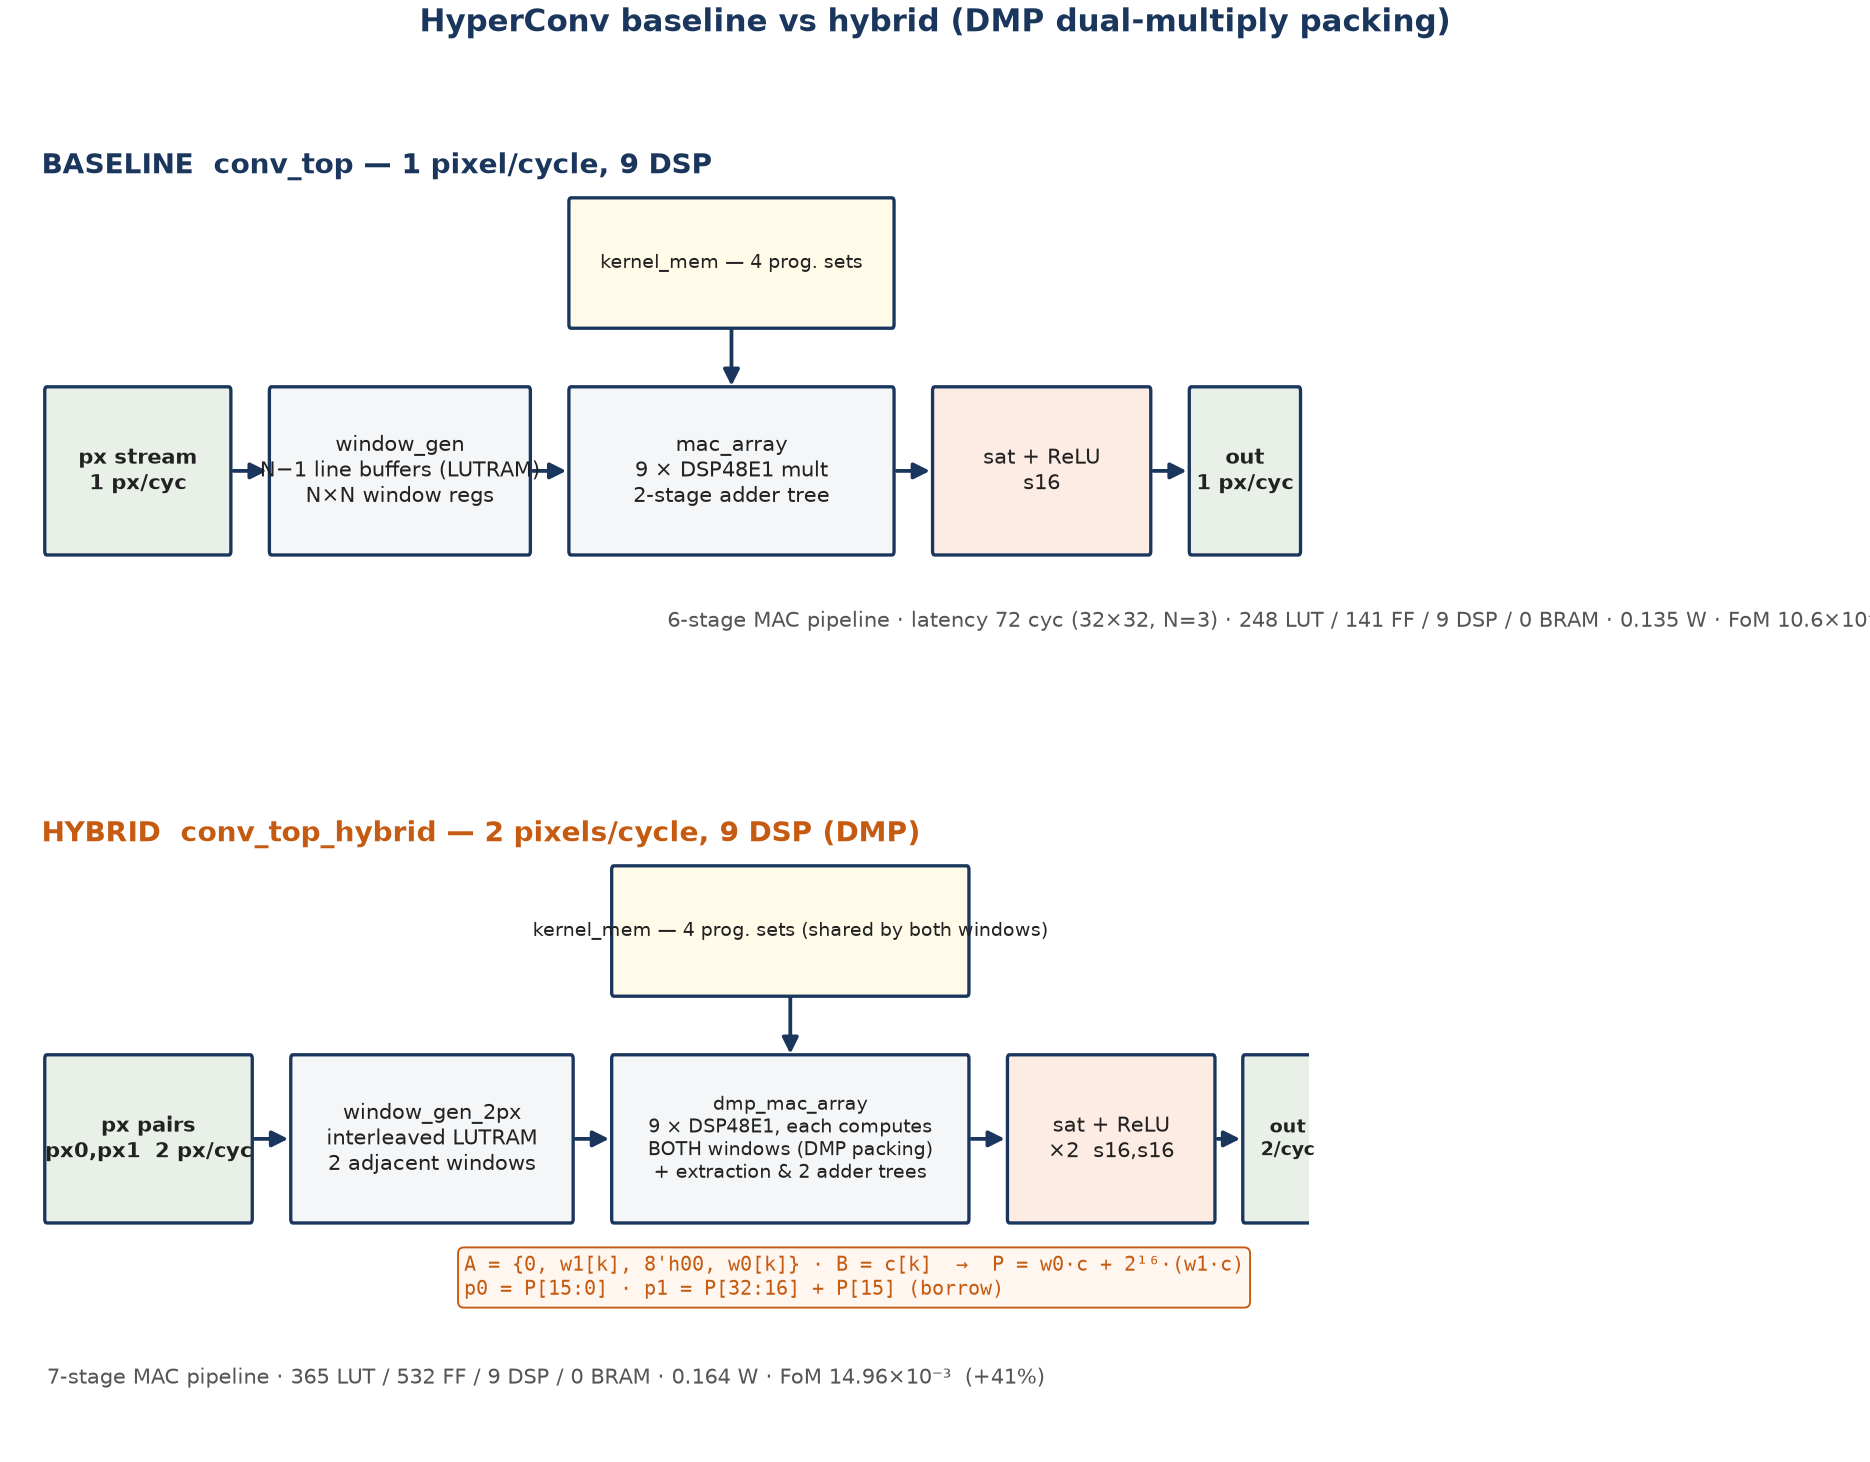
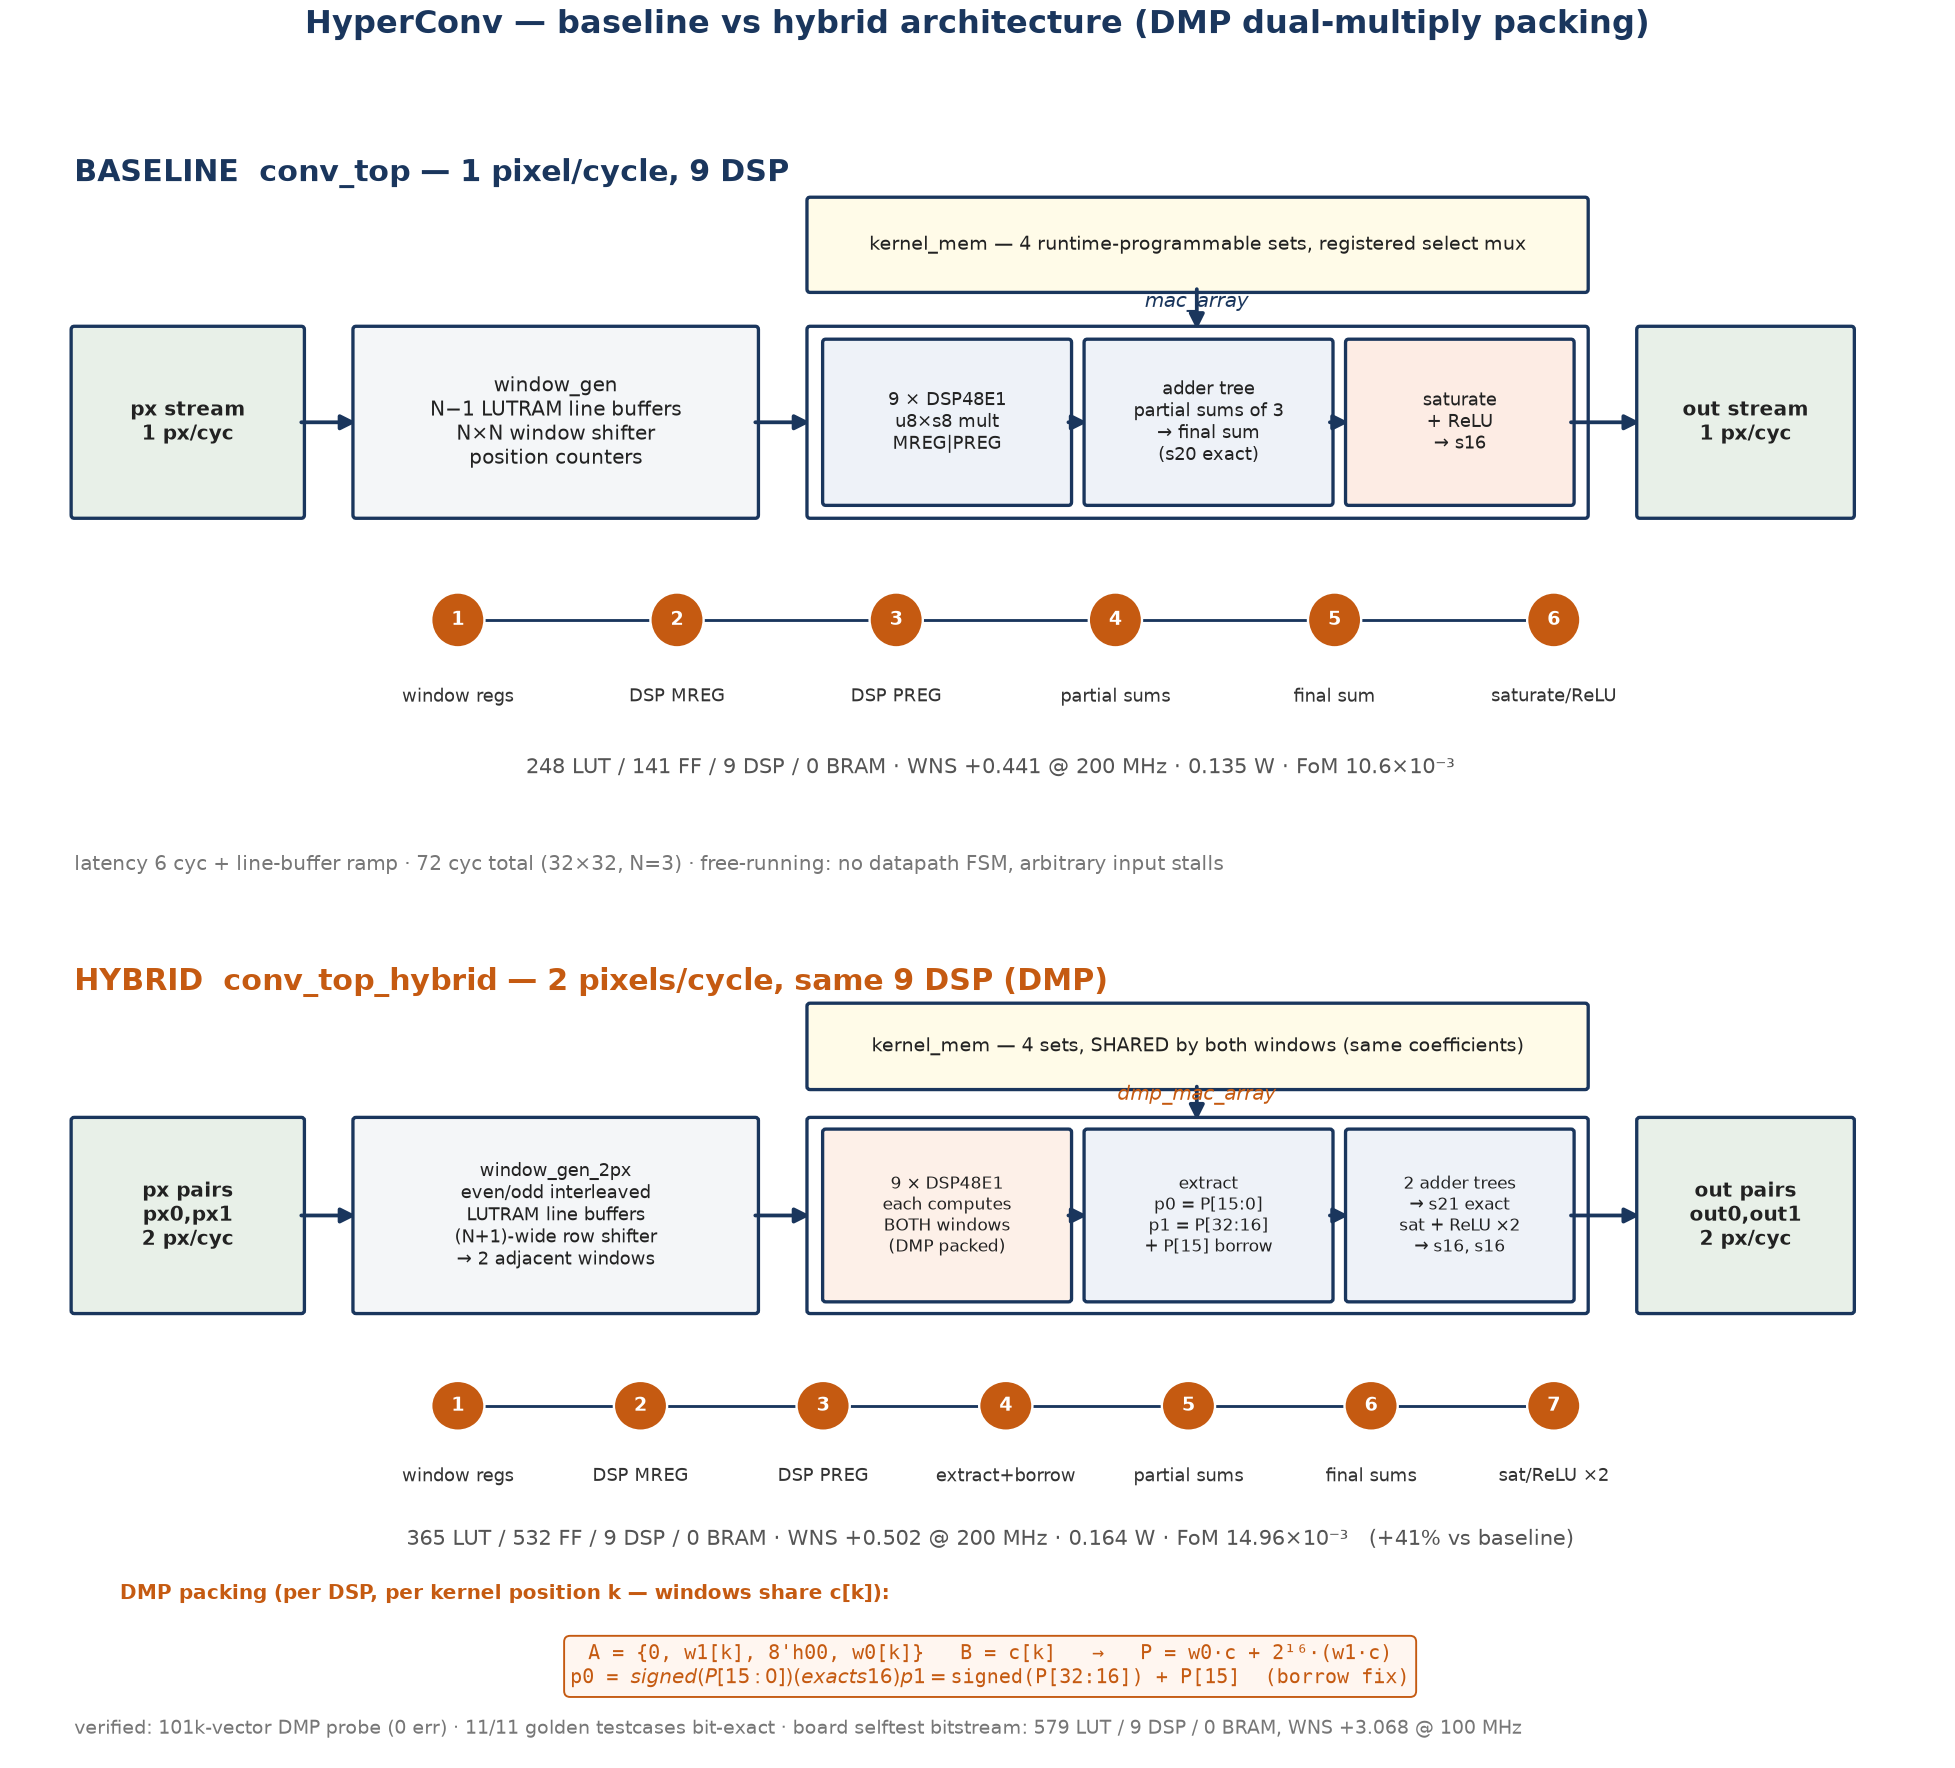
Upgrade hybrid architecture diagram with full internals
- expanded mac_array / dmp_mac_array sub-blocks (packed DSPs, extraction
  + borrow fix, dual adder trees, dual sat/ReLU)
- pipeline stage rulers (6 baseline / 7 hybrid) with per-stage labels
- DMP packing equation panel, verification + board-demo footnote
- fixed label/stat line collisions

diff --git a/docs/gen_hybrid_diagram.py b/docs/gen_hybrid_diagram.py
@@ -1,13 +1,21 @@
 #!/usr/bin/env python3
-"""HyperConv hybrid - baseline vs hybrid block diagram (matplotlib)."""
+"""HyperConv hybrid - baseline vs hybrid architecture diagram (matplotlib).
+
+Regenerates docs/Images/block-diagram-hybrid.png. Two panels:
+  top    - baseline conv_top datapath (6-stage pipeline ruler)
+  bottom - hybrid conv_top_hybrid datapath with dmp_mac_array internals
+           (packed DSPs, extraction/borrow, dual adder trees) and the
+           DMP packing equation (7-stage pipeline ruler)
+"""
 import matplotlib
 matplotlib.use("Agg")
 import matplotlib.pyplot as plt
-from matplotlib.patches import FancyBboxPatch, FancyArrowPatch
+from matplotlib.patches import FancyBboxPatch, FancyArrowPatch, Circle
 
 NAVY, ACCENT, LIGHT = "#1a365d", "#c55a11", "#f4f6f8"
+GREEN, PINK, CREAM = "#e8f0e8", "#fdece4", "#fffbe8"
 
-def box(ax, x, y, w, h, text, fc=LIGHT, ec=NAVY, fs=9, bold=False):
+def box(ax, x, y, w, h, text, fc=LIGHT, ec=NAVY, fs=8.5, bold=False):
     ax.add_patch(FancyBboxPatch((x, y), w, h, boxstyle="round,pad=0.02",
                                 fc=fc, ec=ec, lw=1.4))
     ax.text(x + w/2, y + h/2, text, ha="center", va="center", fontsize=fs,
@@ -15,55 +23,106 @@ def box(ax, x, y, w, h, text, fc=LIGHT, ec=NAVY, fs=9, bold=False):
 
 def arrow(ax, x1, y1, x2, y2, color=NAVY, lw=1.6):
     ax.add_patch(FancyArrowPatch((x1, y1), (x2, y2),
-                 arrowstyle="-|>", mutation_scale=14, color=color, lw=lw))
+                 arrowstyle="-|>", mutation_scale=13, color=color, lw=lw,
+                 shrinkA=0, shrinkB=0))
 
-fig, (ax1, ax2) = plt.subplots(2, 1, figsize=(11, 8.6))
-for ax, title in ((ax1, "BASELINE  conv_top — 1 pixel/cycle, 9 DSP"),
-                  (ax2, "HYBRID  conv_top_hybrid — 2 pixels/cycle, 9 DSP (DMP)")):
-    ax.set_xlim(0, 12); ax.set_ylim(0, 3.4); ax.axis("off")
-    ax.text(0.15, 3.15, title, fontsize=12, fontweight="bold",
-            color=ACCENT if "HYBRID" in title else NAVY)
+def stages(ax, y, x0, x1, labels):
+    """pipeline ruler: numbered circles + labels between x0 and x1"""
+    n = len(labels)
+    dx = (x1 - x0) / (n - 1)
+    ax.plot([x0, x1], [y, y], color=NAVY, lw=1.2, zorder=1)
+    for i, lab in enumerate(labels):
+        cx = x0 + i * dx
+        ax.add_patch(Circle((cx, y), 0.17, fc=ACCENT, ec="white", zorder=3))
+        ax.text(cx, y, str(i + 1), ha="center", va="center", fontsize=8,
+                color="white", fontweight="bold", zorder=4)
+        ax.text(cx, y - 0.42, lab, ha="center", va="top", fontsize=7.6,
+                color="#333")
 
-# ---- baseline row -----------------------------------------------------------
-Y, H = 1.15, 0.85
-box(ax1, 0.2, Y, 1.7, H, "px stream\n1 px/cyc", fc="#e8f0e8", bold=True)
-box(ax1, 2.3, Y, 2.4, H, "window_gen\nN−1 line buffers (LUTRAM)\nN×N window regs")
-box(ax1, 5.1, Y, 3.0, H, "mac_array\n9 × DSP48E1 mult\n2-stage adder tree")
-box(ax1, 8.5, Y, 2.0, H, "sat + ReLU\ns16", fc="#fdece4")
-box(ax1, 10.9, Y, 1.0, H, "out\n1 px/cyc", fc="#e8f0e8", bold=True)
-box(ax1, 5.1, 2.35, 3.0, 0.65, "kernel_mem — 4 prog. sets", fs=8, fc="#fffbe8")
-arrow(ax1, 1.9, Y+H/2, 2.3, Y+H/2)
-arrow(ax1, 4.7, Y+H/2, 5.1, Y+H/2)
-arrow(ax1, 8.1, Y+H/2, 8.5, Y+H/2)
-arrow(ax1, 10.5, Y+H/2, 10.9, Y+H/2)
-arrow(ax1, 6.6, 2.35, 6.6, Y+H)
-ax1.text(6.0, 0.75, "6-stage MAC pipeline · latency 72 cyc (32×32, N=3) · "
-         "248 LUT / 141 FF / 9 DSP / 0 BRAM · 0.135 W · FoM 10.6×10⁻³",
-         fontsize=9, color="#555")
+fig, (ax1, ax2) = plt.subplots(2, 1, figsize=(11.5, 10.4))
 
-# ---- hybrid row -------------------------------------------------------------
-box(ax2, 0.2, Y, 1.9, H, "px pairs\npx0,px1  2 px/cyc", fc="#e8f0e8", bold=True)
-box(ax2, 2.5, Y, 2.6, H, "window_gen_2px\ninterleaved LUTRAM\n2 adjacent windows")
-box(ax2, 5.5, Y, 3.3, H, "dmp_mac_array\n9 × DSP48E1, each computes\n"
-    "BOTH windows (DMP packing)\n+ extraction & 2 adder trees", fs=8)
-box(ax2, 9.2, Y, 1.9, H, "sat + ReLU\n×2  s16,s16", fc="#fdece4")
-box(ax2, 11.4, Y, 0.8, H, "out\n2/cyc", fc="#e8f0e8", bold=True, fs=8)
-box(ax2, 5.5, 2.35, 3.3, 0.65, "kernel_mem — 4 prog. sets (shared by both windows)",
-    fs=8, fc="#fffbe8")
-arrow(ax2, 2.1, Y+H/2, 2.5, Y+H/2)
-arrow(ax2, 5.1, Y+H/2, 5.5, Y+H/2)
-arrow(ax2, 8.8, Y+H/2, 9.2, Y+H/2)
-arrow(ax2, 11.1, Y+H/2, 11.4, Y+H/2)
-arrow(ax2, 7.15, 2.35, 7.15, Y+H)
-ax2.text(4.1, 0.75, "A = {0, w1[k], 8'h00, w0[k]} · B = c[k]  →  "
-         "P = w0·c + 2¹⁶·(w1·c)\np0 = P[15:0] · p1 = P[32:16] + P[15] (borrow)",
-         fontsize=8.5, color=ACCENT, family="monospace",
+# ============================================================== baseline ====
+ax1.set_xlim(0, 12); ax1.set_ylim(0, 4.9); ax1.axis("off")
+ax1.text(0.15, 4.62, "BASELINE  conv_top — 1 pixel/cycle, 9 DSP",
+         fontsize=12.5, fontweight="bold", color=NAVY)
+
+Y, H = 2.55, 1.15
+box(ax1, 0.15, Y, 1.45, H, "px stream\n1 px/cyc", fc=GREEN, bold=True)
+box(ax1, 1.95, Y, 2.55, H, "window_gen\nN−1 LUTRAM line buffers\n"
+    "N×N window shifter\nposition counters")
+# mac_array outer + sub-blocks
+box(ax1, 4.85, Y, 4.95, H, "", fc="#ffffff")
+ax1.text(7.32, Y + H + 0.14, "mac_array", ha="center", fontsize=8.5,
+         style="italic", color=NAVY)
+box(ax1, 4.95, Y + 0.08, 1.55, H - 0.16, "9 × DSP48E1\nu8×s8 mult\nMREG|PREG",
+    fc="#eef2f8", fs=7.6)
+box(ax1, 6.62, Y + 0.08, 1.55, H - 0.16, "adder tree\npartial sums of 3\n→ final sum\n(s20 exact)",
+    fc="#eef2f8", fs=7.6)
+box(ax1, 8.29, Y + 0.08, 1.42, H - 0.16, "saturate\n+ ReLU\n→ s16", fc=PINK, fs=7.6)
+box(ax1, 10.15, Y, 1.35, H, "out stream\n1 px/cyc", fc=GREEN, bold=True)
+box(ax1, 4.85, 3.95, 4.95, 0.55, "kernel_mem — 4 runtime-programmable sets, registered select mux",
+    fs=8, fc=CREAM)
+arrow(ax1, 1.60, Y+H/2, 1.95, Y+H/2)
+arrow(ax1, 4.50, Y+H/2, 4.85, Y+H/2)
+arrow(ax1, 6.50, Y+H/2, 6.62, Y+H/2)
+arrow(ax1, 8.17, Y+H/2, 8.29, Y+H/2)
+arrow(ax1, 9.71, Y+H/2, 10.15, Y+H/2)
+arrow(ax1, 7.32, 3.95, 7.32, Y + H)
+ax1.text(6.0, 0.95, "248 LUT / 141 FF / 9 DSP / 0 BRAM · WNS +0.441 @ 200 MHz · "
+         "0.135 W · FoM 10.6×10⁻³", fontsize=9, color="#555", ha="center")
+stages(ax1, 1.90, 2.6, 9.6,
+       ["window regs", "DSP MREG", "DSP PREG", "partial sums",
+        "final sum", "saturate/ReLU"])
+ax1.text(0.15, 0.35, "latency 6 cyc + line-buffer ramp · 72 cyc total (32×32, N=3) · "
+         "free-running: no datapath FSM, arbitrary input stalls",
+         fontsize=8.5, color="#777")
+
+# ================================================================ hybrid ====
+ax2.set_xlim(0, 12); ax2.set_ylim(0, 5.4); ax2.axis("off")
+ax2.text(0.15, 5.14, "HYBRID  conv_top_hybrid — 2 pixels/cycle, same 9 DSP (DMP)",
+         fontsize=12.5, fontweight="bold", color=ACCENT)
+
+Y, H = 2.95, 1.30
+box(ax2, 0.15, Y, 1.45, H, "px pairs\npx0,px1\n2 px/cyc", fc=GREEN, bold=True)
+box(ax2, 1.95, Y, 2.55, H, "window_gen_2px\neven/odd interleaved\nLUTRAM line buffers\n"
+    "(N+1)-wide row shifter\n→ 2 adjacent windows", fs=7.8)
+# dmp_mac_array outer + sub-blocks
+box(ax2, 4.85, Y, 4.95, H, "", fc="#ffffff")
+ax2.text(7.32, Y + H + 0.14, "dmp_mac_array", ha="center", fontsize=8.5,
+         style="italic", color=ACCENT)
+box(ax2, 4.95, Y + 0.08, 1.55, H - 0.16, "9 × DSP48E1\neach computes\nBOTH windows\n(DMP packed)",
+    fc="#fdf0e8", fs=7.4)
+box(ax2, 6.62, Y + 0.08, 1.55, H - 0.16, "extract\np0 = P[15:0]\np1 = P[32:16]\n+ P[15] borrow",
+    fc="#eef2f8", fs=7.4)
+box(ax2, 8.29, Y + 0.08, 1.42, H - 0.16, "2 adder trees\n→ s21 exact\nsat + ReLU ×2\n→ s16, s16",
+    fc="#eef2f8", fs=7.4)
+box(ax2, 10.15, Y, 1.35, H, "out pairs\nout0,out1\n2 px/cyc", fc=GREEN, bold=True, fs=8.5)
+box(ax2, 4.85, 4.48, 4.95, 0.55, "kernel_mem — 4 sets, SHARED by both windows (same coefficients)",
+    fs=8, fc=CREAM)
+arrow(ax2, 1.60, Y+H/2, 1.95, Y+H/2)
+arrow(ax2, 4.50, Y+H/2, 4.85, Y+H/2)
+arrow(ax2, 6.50, Y+H/2, 6.62, Y+H/2)
+arrow(ax2, 8.17, Y+H/2, 8.29, Y+H/2)
+arrow(ax2, 9.71, Y+H/2, 10.15, Y+H/2)
+arrow(ax2, 7.32, 4.48, 7.32, Y + H)
+ax2.text(6.0, 1.35, "365 LUT / 532 FF / 9 DSP / 0 BRAM · WNS +0.502 @ 200 MHz · "
+         "0.164 W · FoM 14.96×10⁻³   (+41% vs baseline)",
+         fontsize=9, color="#555", ha="center")
+stages(ax2, 2.30, 2.6, 9.6,
+       ["window regs", "DSP MREG", "DSP PREG", "extract+borrow",
+        "partial sums", "final sums", "sat/ReLU ×2"])
+ax2.text(2.9, 0.98, "DMP packing (per DSP, per kernel position k — windows share c[k]):",
+         fontsize=8.5, color=ACCENT, ha="center", fontweight="bold")
+ax2.text(6.0, 0.40, "A = {0, w1[k], 8'h00, w0[k]}   B = c[k]   →   P = w0·c + 2¹⁶·(w1·c)\n"
+         "p0 = $signed(P[15:0])  (exact s16)   p1 = $signed(P[32:16]) + P[15]  (borrow fix)",
+         fontsize=8.5, color=ACCENT, family="monospace", ha="center",
          bbox=dict(fc="#fff6f0", ec=ACCENT, lw=0.8, boxstyle="round"))
-ax2.text(0.2, 0.28, "7-stage MAC pipeline · 365 LUT / 532 FF / 9 DSP / 0 BRAM · "
-         "0.164 W · FoM 14.96×10⁻³  (+41%)", fontsize=9, color="#555")
+ax2.text(0.15, 0.06, "verified: 101k-vector DMP probe (0 err) · 11/11 golden testcases bit-exact · "
+         "board selftest bitstream: 579 LUT / 9 DSP / 0 BRAM, WNS +3.068 @ 100 MHz",
+         fontsize=8, color="#777")
 
-fig.suptitle("HyperConv baseline vs hybrid (DMP dual-multiply packing)",
-             fontsize=13, fontweight="bold", color=NAVY, y=0.995)
+fig.suptitle("HyperConv — baseline vs hybrid architecture (DMP dual-multiply packing)",
+             fontsize=13.5, fontweight="bold", color=NAVY, y=0.995)
 plt.tight_layout(rect=[0, 0, 1, 0.97])
 plt.savefig("docs/Images/block-diagram-hybrid.png", dpi=170)
 print("saved docs/Images/block-diagram-hybrid.png")
